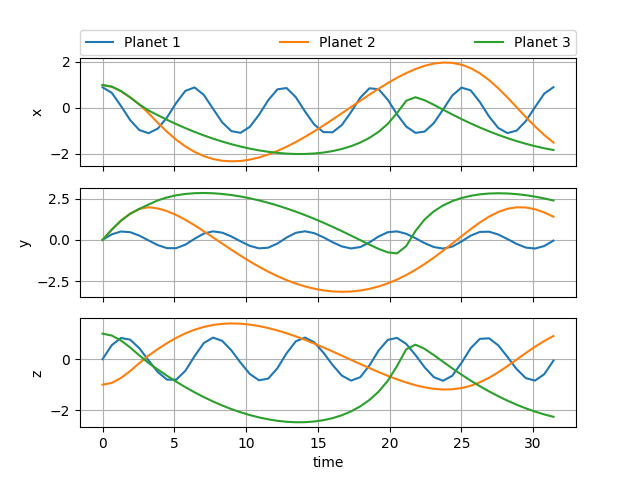
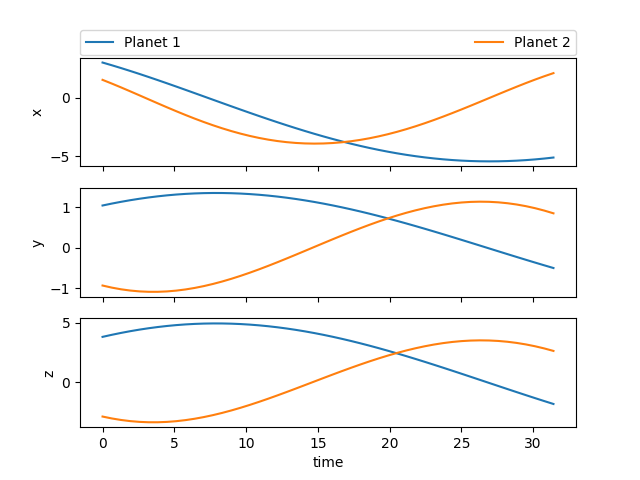
25.11. Pauline
Hab Helga Daten eingefügt und das Bild (Fig.2) aus dem Paper versucht nachzubilden

diff --git a/python/lyapunov_exponent.py b/python/lyapunov_exponent.py
@@ -7,7 +7,7 @@ import matplotlib.pyplot as plt
 import visualize_orbit
 
 
-sim = visualize_orbit.setup()
+
 # visualize_orbit.PAForbitplot(sim1)
 # a = 1
 # tmax = a * 2*np.pi*1e3
@@ -24,31 +24,55 @@ def simu(t):
     sim.integrator = "whfast"
     #sim.min_dt = 5.
     sim.dt = 1.
-
     sim.move_to_com() #center of mass is at the origin and does not move
     sim.init_megno()
     # Hide warning messages (WHFast timestep too large)
     with warnings.catch_warnings(record=True) as w:
         warnings.simplefilter("always")
         sim.integrate(t*2.*np.pi)
-        return [sim.calculate_megno(),(sim.calculate_lyapunov()/(2.*np.pi))] # returns MEGNO and Lypunov exp in 1/years
+    return  sim, sim.calculate_megno(),(sim.calculate_lyapunov()/(2.*np.pi)) # returns MEGNO and Lypunov exp in 1/years
 
-def plotlyapunov(l,T): #lyapunov und zeit
-    fig, ax1 = plt.subplots(1,1)
+def plotlyapunov_t(fig, ax1, l,T): #lyapunov und zeit
     ax1.set(ylabel ='Lyapunov-Exponent', xlabel = 'Zeit')
     ax1.plot(T,l,'o-')
     ax1.grid()
-    fig.savefig('lyapunov.png')
+    return fig
 
-n=30
-step=1e3
-T=np.arange(1e3,1e3+n*step,step)
+def plotlyapunov_a(l,h): #lyapunov und zeit
+    fig, ax1 = plt.subplots(1,1)
+    ax1.set(ylabel ='Lyapunov-Exponent', xlabel = 'a/a_Jupiter')
+    ax1.plot(h,l,'o-')
+    ax1.grid()
+    fig.savefig('lyapunov_a.png')
+
+n=1
+step=2e3
+start=1e6
+T=np.arange(start,start+n*step,step)
 megno=np.zeros(n)
 lyapunov=np.zeros(n)
-for i,t in enumerate(T): #in years
-    m,l=simu(t)
-    megno[i]=m
-    lyapunov[i]=l
+fig, ax1 = plt.subplots(1,1)
+#h= semimajoraxis Helga/Jupiter
+h=0.696
+sim = visualize_orbit.setup('Helga',h)
+for k in range(0,1,1):
+    for i,t in enumerate(T): #in years
+        sim, m, l=simu(t)
+        megno[i]=m
+        lyapunov[i]=l
 
-print(lyapunov)
-plotlyapunov(lyapunov,T)
+    print(lyapunov)
+
+    plotlyapunov_t(fig, ax1, lyapunov, T)
+
+fig.savefig('lyapunov_mit_return_sim.png')
+
+lyapunov_a=np.zeros(31)
+H=np.zeros(31)
+for i,h in enumerate(np.arange(0.696,0.699,0.0001)):
+    sim = visualize_orbit.setup('Helga',h) #jedes mal neu initialisiert
+    sim, m, l=simu(start+n*step)
+    lyapunov_a[i]=l
+    H[i]=h
+
+plotlyapunov_a(lyapunov_a,H)

diff --git a/python/visualize_orbit.py b/python/visualize_orbit.py
@@ -4,19 +4,31 @@ import numpy as np
 import matplotlib
 import matplotlib.pyplot as plt
 #--------------- Create Simulation object
-def setup():
-    sim = rebound.Simulation()
-    sim.add( m=1. )                         # sun
-    sim.add( m=1e-3, a=1., e=0.1, inc = 45 )          # Planet 1 (Jupiter)
-    sim.add(m=1e-3, x=1., y=0., z= -1., vx=0, vy=1, vz=0 )           # lesser Planet 2 (fictional)
-    sim.add( m=1e-3, x=1., y=0., z= 1., vx=0, vy=1, vz=0 )         # Planet 3 (fictional)
+
+#h= semimajoraxis Helga/Jupiter
+def setup(option,h):
+    if option=='Helga':
+        sim = rebound.Simulation()
+        sim.add( m=1. )                         # sun
+        sim.add( m=0.000954, a=5.204, M=0.600, omega=0.257, e=0.0489,inc=1.304) # Planet 1 (Jupiter) Dtaen von Wiki
+        sim.add(m=3e-7, a=5.204*h, M=38.41426796877275, omega=0.257, e=.08634521111588543 ,inc=4.4 )  # Helga NASA
+        #Masse unbekannt?
+        #sim.add( "NAME=Pluto")
+    if option=='fictional':
+        sim = rebound.Simulation()
+        sim.add( m=1. )                         # sun
+        sim.add( m=1e-3, a=1., e=0.1, inc = 45 )          # Planet 1 (Jupiter)
+        sim.add(m=1e-3, x=1., y=0., z= -1., vx=0, vy=1, vz=0 )           # lesser Planet 2 (fictional)
+        sim.add( m=1e-3, x=1., y=0., z= 1., vx=0, vy=1, vz=0 )         # Planet 3 (fictional)
     return sim
+
+
 #------------- calculate
 
 def PAFintegrate(arbsim ,tmax, Ntimes,delta_t):
     # setting time scale
     times = np.linspace(0,tmax,Ntimes)
-    zerros = np.zeros((len(times),arbsim.N-1))
+    #zerros = np.zeros((len(times),arbsim.N-1))
     # create equal arrays for each observable
     x = np.zeros((len(times),arbsim.N-1))
     y = np.zeros((len(times),arbsim.N-1))
@@ -78,7 +90,8 @@ def PAForbitplot(sim):
     fig.savefig('orbitplot.png')
 
 #---------------- the real deal ---------------
-sim1 = setup()
+h=0.696
+sim1 = setup('Helga',h)
 # sim1.status()
 PAForbitplot(sim1)
 # sim1.status()
